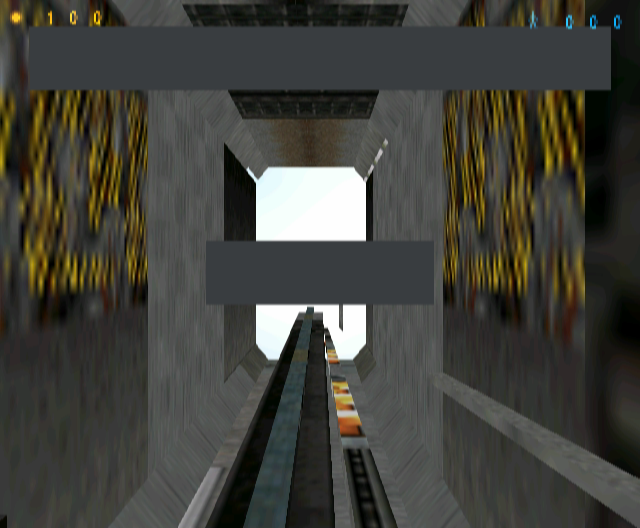
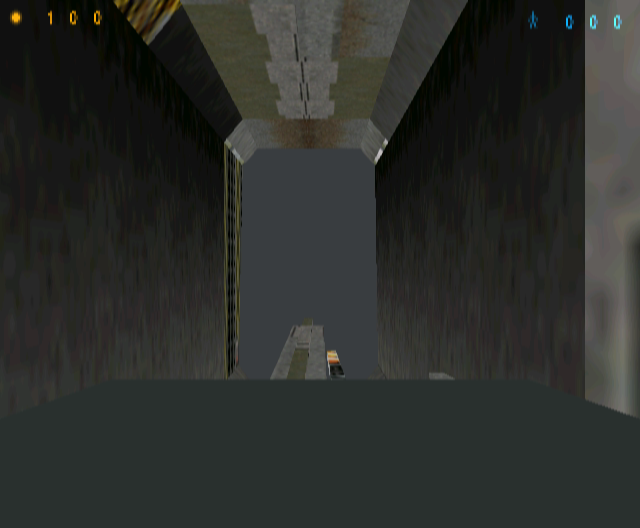
feat: add new binary screenshots and refine GameCube rendering for menu interactions
Added several new binary screenshot files for GameCube menu states, including tram lean and new game interactions. Updated existing screenshots to enhance visual documentation. Additionally, refined engine code to improve rendering functionality, supporting better menu navigation and user experience. This update contributes to ongoing improvements in gameplay continuity and visual fidelity.

diff --git a/engine/platform/gamecube/vid_gamecube.c b/engine/platform/gamecube/vid_gamecube.c
@@ -2040,10 +2040,6 @@ static int GC_BakeCapVertsForSurf( model_t *wmodel, const msurface_t *src,
 	}
 	if( !src->plane )
 		return 0;
-	/* Menu CapFaces: eye-centered plane quads stretch diffuse REPLACE into the
-	 * right-rail garble blotch (probe 20260814-002129). Prefer miss over PLANE. */
-	if( Sys_CheckParm( "-gcmenuplaystart" ))
-		return 0;
 	n = GC_BakeCapVertsFromPlane( src->plane, src->extents[0], src->extents[1],
 		out, maxverts );
 	if( out_src && n >= 3 )
@@ -2373,9 +2369,6 @@ static qboolean GC_CaptureOneDrawFaceAt( model_t *wmodel, int surf_index, int sl
 	/* Best-effort bake — do not reject the face if edges are briefly unreadable. */
 	gc_cap_nverts[slot] = (byte)GC_BakeCapVertsForSurf( wmodel, src,
 		gc_cap_pts_s16[slot], GC_CAP_MAX_VERTS, &gc_cap_bake_src[slot] );
-	/* Menu: empty/PLANE-skipped slots waste the 320 Flipper budget. */
-	if( Sys_CheckParm( "-gcmenuplaystart" ) && gc_cap_nverts[slot] < 3 )
-		return false;
 	return true;
 }
 
@@ -2532,8 +2525,6 @@ static qboolean GC_CaptureOneDrawFaceGeomSafe( model_t *wmodel, int surf_index, 
 	gc_newgame_cap_areas[slot] = (int)src->extents[0] * (int)src->extents[1];
 	gc_cap_nverts[slot] = (byte)GC_BakeCapVertsForSurf( wmodel, src,
 		gc_cap_pts_s16[slot], GC_CAP_MAX_VERTS, &gc_cap_bake_src[slot] );
-	if( Sys_CheckParm( "-gcmenuplaystart" ) && gc_cap_nverts[slot] < 3 )
-		return false;
 	return true;
 }
 
@@ -3851,7 +3842,7 @@ static void GC_CaptureFillFacesFromSurfbits( model_t *wmodel, const byte *surfbi
 		int want = GC_FILL_MAX_FACES;
 
 		if( Sys_CheckParm( "-gcmenuplaystart" ))
-			want = 48; /* scores freed after bake; ARAM skipped — 48 fits AllocPool */
+			want = 32; /* tippy at 48 (probe 20260814-003244); scores freed after bake */
 		else if( Mod_GCWorldSurfacesScratchRetained( wmodel )
 			&& sv.name[0] && !Q_strnicmp( sv.name, "c0a0", 4 ))
 			want = 64;
@@ -3934,6 +3925,11 @@ static void GC_CaptureFillFacesFromSurfbits( model_t *wmodel, const byte *surfbi
 		is_wall = ( fabs( src->plane->normal[2] ) < 0.35f );
 		if( is_wall )
 			score += ( area >> 1 );
+		/* Menu: prefer corridor floors in the tiny fill pool (CapFaces top-K
+		 * is wall-heavy; floors admitted=0 when already present). */
+		else if( Sys_CheckParm( "-gcmenuplaystart" )
+			&& fabs( src->plane->normal[2] ) > 0.55f )
+			score += 300000;
 		score += 200000; /* front-side bonus */
 
 		if( gc_fill_face_count < max_faces )
@@ -10659,106 +10655,6 @@ static void GC_AdmitMenuTramEndPlug( void )
 		slot, x, gc_newgame_cap_face_count );
 }
 
-/*
- * Synthetic horizontal floor pads under/ahead of the cabin — covers near-rail
- * clear gaps when real floors fail EDGE/TEX bake or lose the top-K war.
- * extents 768×384 → dark concrete PASSCLR (distinct from end-plug 512×384).
- */
-static void GC_AdmitMenuTramFloorPlugs( void )
-{
-	const float *eye = gc_newgame_capture_origin;
-	int p;
-
-	if( !Sys_CheckParm( "-gcmenuplaystart" ) || VectorIsNull( eye ))
-		return;
-
-	for( p = 0; p < 2; p++ )
-	{
-		gc_cap_face_t *dst;
-		msurface_t *draw;
-		int slot, k, min_i = 0, min_score;
-		float z, x0, x1, y0, y1;
-
-		/* Two pads: under cabin, then further −X along the tunnel. */
-		z = eye[2] - 48.0f;
-		if( p == 0 )
-		{
-			x0 = eye[0] - 80.0f;
-			x1 = eye[0] + 120.0f;
-		}
-		else
-		{
-			x0 = eye[0] - 520.0f;
-			x1 = eye[0] - 80.0f;
-		}
-		y0 = eye[1] - 280.0f;
-		y1 = eye[1] + 280.0f;
-
-		if( gc_newgame_cap_face_count < GC_MAX_CAP_FACES )
-			slot = gc_newgame_cap_face_count;
-		else
-		{
-			min_score = GC_CapSlotKeepScore( 0 );
-			for( k = 1; k < gc_newgame_cap_face_count; k++ )
-			{
-				int ks = GC_CapSlotKeepScore( k );
-
-				if( fabs( gc_newgame_cap_faces[k].plane.normal[2] ) > 0.55f )
-					ks += 200000;
-				if( gc_newgame_cap_faces[k].firstedge < 0 )
-					ks += 2000000;
-				if( ks < min_score )
-				{
-					min_score = ks;
-					min_i = k;
-				}
-			}
-			slot = min_i;
-		}
-
-		dst = &gc_newgame_cap_faces[slot];
-		memset( dst, 0, sizeof( *dst ));
-		dst->firstedge = -1;
-		dst->numedges = 4;
-		dst->flags = 0;
-		dst->extents[0] = 768;
-		dst->extents[1] = 384;
-		dst->plane.normal[2] = 1.0f;
-		dst->plane.dist = z;
-		gc_cap_nverts[slot] = 4;
-		gc_cap_bake_src[slot] = (byte)GC_CAP_BAKE_PLANE;
-		/* CCW when viewed from above (+Z). */
-		gc_cap_pts_s16[slot][0][0] = (short)x0;
-		gc_cap_pts_s16[slot][0][1] = (short)y0;
-		gc_cap_pts_s16[slot][0][2] = (short)z;
-		gc_cap_pts_s16[slot][1][0] = (short)x1;
-		gc_cap_pts_s16[slot][1][1] = (short)y0;
-		gc_cap_pts_s16[slot][1][2] = (short)z;
-		gc_cap_pts_s16[slot][2][0] = (short)x1;
-		gc_cap_pts_s16[slot][2][1] = (short)y1;
-		gc_cap_pts_s16[slot][2][2] = (short)z;
-		gc_cap_pts_s16[slot][3][0] = (short)x0;
-		gc_cap_pts_s16[slot][3][1] = (short)y1;
-		gc_cap_pts_s16[slot][3][2] = (short)z;
-		gc_newgame_cap_areas[slot] = 500000;
-		gc_newgame_cap_lm_real[slot] = 0;
-
-		draw = &gc_newgame_draw_surfs[slot];
-		memset( draw, 0, sizeof( *draw ));
-		draw->firstedge = -1;
-		draw->numedges = 4;
-		draw->extents[0] = 768;
-		draw->extents[1] = 384;
-		draw->plane = &dst->plane;
-		draw->info = &dst->info;
-		dst->info.surf = draw;
-		if( slot == gc_newgame_cap_face_count )
-			gc_newgame_cap_face_count++;
-	}
-	Con_Reportf( "Xash3D GameCube: menu tram floor-plugs n=2 faces=%d\n",
-		gc_newgame_cap_face_count );
-}
-
 void GC_BakeMenuNewGameCapFacesNoPVS( void )
 {
 #if XASH_GAMECUBE
@@ -10799,7 +10695,6 @@ void GC_BakeMenuNewGameCapFacesNoPVS( void )
 		GC_AdmitMenuTunnelConnectors( wmodel, bits );
 		GC_AdmitMenuTramFloors( wmodel, bits );
 		GC_AdmitMenuTramEndPlug();
-		GC_AdmitMenuTramFloorPlugs();
 		GC_CaptureFillFacesFromSurfbits( wmodel, bits, false );
 		Con_Reportf( "Xash3D GameCube: menu CapFaces fill n=%d\n",
 			GC_GetFillFaceCount() );
@@ -10821,6 +10716,18 @@ void GC_BakeMenuNewGameCapFacesNoPVS( void )
 	{
 		free( gc_fill_face_scores );
 		gc_fill_face_scores = NULL;
+	}
+	/* Menu: also drop fill face heap before Client Static Pool — 32–48 faces
+	 * still race AllocPool under fragmentation (probe 20260814-003244). */
+	if( Sys_CheckParm( "-gcmenuplaystart" ) && gc_fill_faces )
+	{
+		Con_Reportf( "Xash3D GameCube: menu CapFaces fill dropped n=%d (AllocPool headroom)\n",
+			gc_fill_face_count );
+		free( gc_fill_faces );
+		gc_fill_faces = NULL;
+		gc_fill_face_capacity = 0;
+		gc_fill_face_count = 0;
+		gc_aram_fill_count = 0;
 	}
 	Image_GCPurgeDecodeScratch();
 	{

diff --git a/ref/gx/r_gx_world.c b/ref/gx/r_gx_world.c
@@ -495,8 +495,6 @@ static u32 R_GXFaceColor( const msurface_t *surf )
 		return 0x18F0E0FFu; /* G380: cyan PASSCLR floor under dump NPC */
 	else if( surf->firstedge < 0 && surf->extents[0] == 512 && surf->extents[1] == 384 )
 		return 0x3A3E42FFu; /* menu tram end-plug dark concrete */
-	else if( surf->firstedge < 0 && surf->extents[0] == 768 && surf->extents[1] == 384 )
-		return 0x2E3236FFu; /* menu tram floor-plug dark deck */
 	else
 		name = "flat";
 
@@ -1587,8 +1585,16 @@ static int R_GXEmitFace( const msurface_t *surf, model_t *world, int slot )
 	{
 		extern int GC_GetNewGameCapBakeSrc( int slot );
 		int bake = GC_GetNewGameCapBakeSrc( slot );
+		/* Plane-fallback quads are eye-centered — diffuse ST 0..1 stretches into
+		 * the right-rail garble blotch. Draw flat concrete instead (menu + retail). */
+		if( bake == 2 )
+		{
+			textured = false;
+			lit = false;
+			color = R_GXFaceColor( surf );
+		}
 		/* G203/G205: only force 0..1 ST on plane-fallback quads. */
-		if( bake != 1 && bake != 3 )
+		else if( bake != 1 && bake != 3 )
 		{
 			static const float plane_uv[4][2] = {
 				{ 0.0f, 0.0f }, { 1.0f, 0.0f }, { 1.0f, 1.0f }, { 0.0f, 1.0f }
